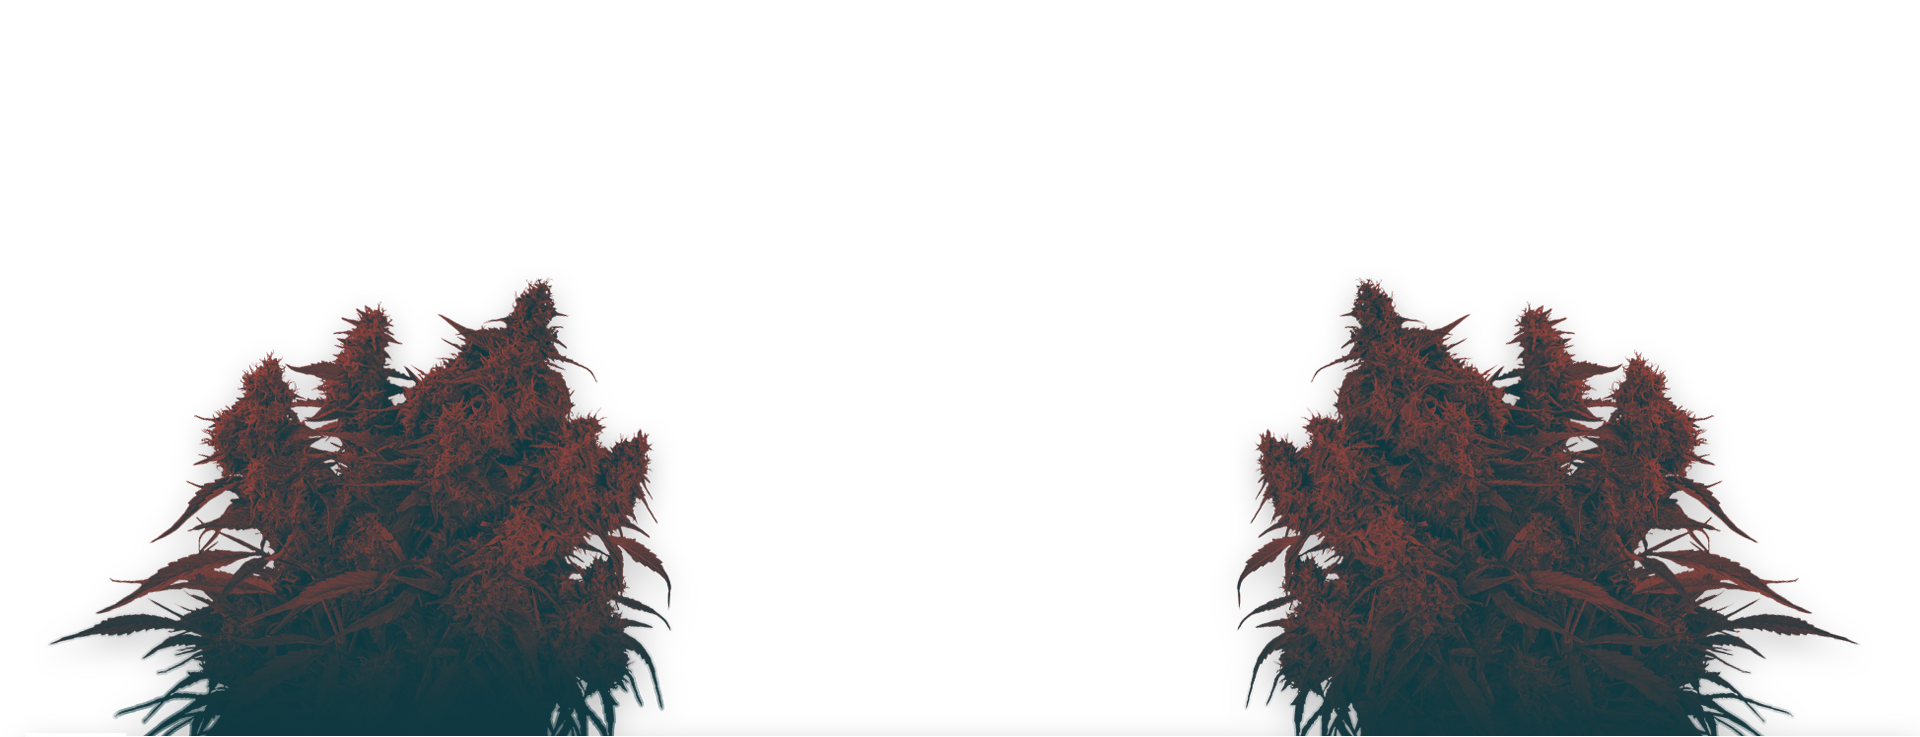
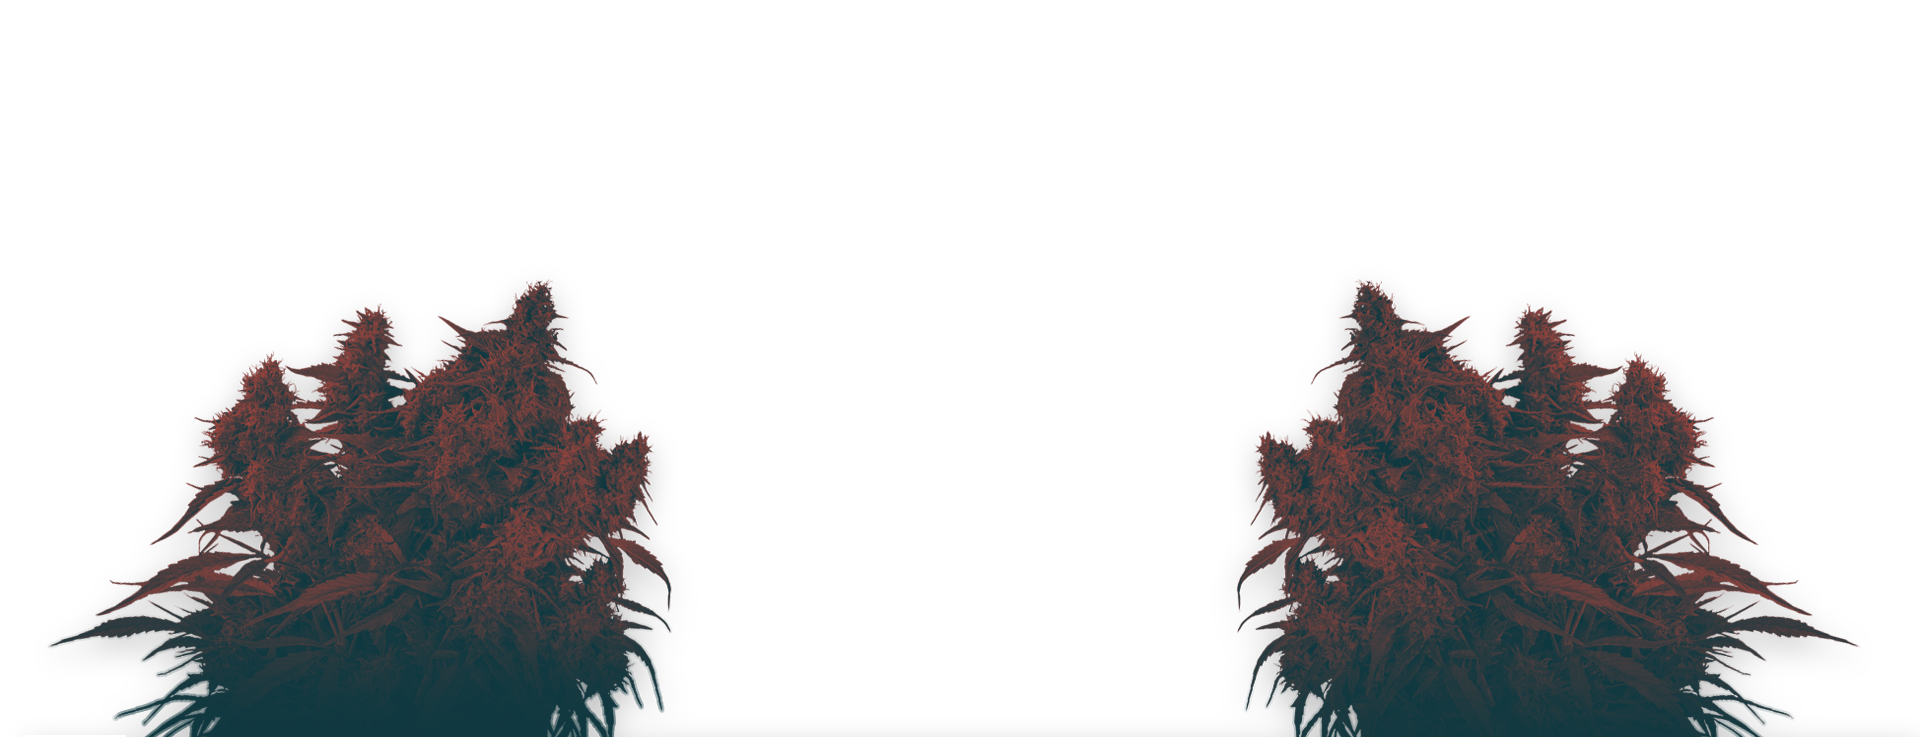
add hooks and other functions

Changed region(s): [[0.625, 0.3745, 0.9688, 1.0], [0.0312, 0.3745, 0.3438, 1.0]]

diff --git a/src/components/home/homeContainer.js b/src/components/home/homeContainer.js
@@ -1,86 +1,90 @@
-import React from 'react';
+import React,{useState} from 'react';
 import './homeContainer.css';
 
-let iconSeed = require("../../assets/home/seed.png");
-let iconFlower = require("../../assets/home/flower.png");
-let iconExtract = require("../../assets/home/extract.png");
 let logo = require("../../assets/home/logo.png");
 let parallax_1 = require("../../assets/home/parallax-1.png");
 let parallax_2 = require("../../assets/home/parallax-2.png");
 
-const listSection = [
-    {img:iconSeed,title:"Seed",summary:"lorem",class:"list-img-title"},
-    {img:iconFlower,title:"Flower",summary:"lorem",class:"list-img-title pd-left-3"},
-    {img:iconExtract,title:"Extract",summary:"lorem",class:"list-img-title pd-left-3"}
-];
-class HomeContainer extends React.Component{
-    render(){
-        return(
-            <section>
-                <TitleContainer listSection={listSection}/>
-            </section>
-        );
-    }
+function HomeContainer(props){
+    return(
+        <section className="main-section">
+            <TitleContainer listSection={props.listSection}/>
+        </section>
+    );
 }
 
-class TitleContainer extends React.Component{
-    constructor(props){
-        super(props);
-        this.state = {
-            meetThemActive : false
-        };
-        this.clickMeetThem = this.clickMeetThem.bind(this);
+function TitleContainer(props){
+    const [sectionOn,setSectionOn] = useState(false);
+    const [dataSectionView,setDataSectionView] = useState({});
+    
+    function changeSection(data,sectionOnInd){
+        setSectionOn(sectionOnInd);
+        setDataSectionView(data)
     }
-
-    clickMeetThem(e){
-        this.setState({
-            meetThemActive : !this.state.meetThemActive
-        });
-    }
-
-    render(){
-        var listSection = this.props.listSection;
-        var sectionOn = this.state.meetThemActive;
-        return(
-            <>
-            <section className='title-container'>
-                <img src={parallax_1}></img>
-                <div>
-                    <img class="logo-img" src={logo}></img>
-                    <br/>
-                    <span className='title'>UN NUEVO CONCEPTO EN FLORES</span>
-                    <br/>
-                    <br/>
-                    <button onClick={this.clickMeetThem} className='btn-explore'>Conócelo</button>
-                    <br/>
-                    <div className="pd-1">
-                        {listSection.map((item) => <ImgSection key={item.title} section={item}/>)}
+        
+    return(
+        <>
+            {!sectionOn && 
+                <section className='title-container'>
+                    <BackImg img={parallax_1}/>
+                    <BackImg img={parallax_2}/>
+                    <div className='elem-container'>
+                        <img className="logo-img" src={logo}></img>
+                        <br/>
+                        <span className='title'>UN NUEVO CONCEPTO EN FLORES</span>
+                        <br/>
+                        <br/>
+                        <button className='btn-explore'>Conócelo</button>
+                        <br/>
+                        <div className="pd-1">
+                            {props.listSection.map((item) => <ImgSection key={item.title} section={item}
+                                onChangeSection={changeSection}/>)}
+                        </div>
                     </div>
-                </div>
-            </section>
-            {sectionOn && <MeetThemView />}
-            </>
-        );
-    }
+                </section>
+            }
+            {!sectionOn ?<MeetThemView />:<SectionView dataSection={dataSectionView} onChangeSection={changeSection}/>}
+        </>
+    );
 }
 
-class ImgSection extends React.Component{
-    constructor(props){
-        super(props);
+function ImgSection(props){
+    function handleChange(){
+        props.onChangeSection(props.section,true);
     }
 
-    render(){
-        return(
-            <img className={this.props.section.class} src={this.props.section.img}></img>
-        );
-    }
+    return(
+        <a className={props.section.class}>
+            <img className='list-img-title' src={props.section.img} onClick={handleChange}/>
+        </a>
+    );
 }
+
 
 function MeetThemView(props) {
     return(
-        <section>
-            <h1>HOLI!</h1>
+        <section className='meet-them'>
+
         </section>
+    );
+}
+
+function BackImg(props) {
+    return(
+        <div className='back-container'>
+            <img className='back-img' src={props.img}></img>
+        </div>
+    );
+}
+
+function SectionView(props) {
+    
+    function returnHome() {
+        props.onChangeSection({},false)
+    }
+
+    return(
+        <h1 onClick={returnHome}>{props.dataSection.summary}</h1>
     );
 }
 export default HomeContainer;

diff --git a/src/index.js b/src/index.js
@@ -4,8 +4,17 @@ import './index.css';
 import HomeContainer from './components/home/homeContainer';
 import * as serviceWorker from './serviceWorker';
 
+let iconSeed = require("./assets/home/seed.png");
+let iconFlower = require("./assets/home/flower.png");
+let iconExtract = require("./assets/home/extract.png");
 
-ReactDOM.render(<HomeContainer />, document.getElementById('root'));
+const listSection = [
+    {img:iconSeed,title:"Seed",summary:"lorem seed",class:""},
+    {img:iconFlower,title:"Flower",summary:"lorem flower",class:"pd-left-3"},
+    {img:iconExtract,title:"Extract",summary:"lorem extract",class:"pd-left-3"}
+];
+
+ReactDOM.render(<HomeContainer listSection={listSection}/>, document.getElementById('root'));
 
 // If you want your app to work offline and load faster, you can change
 // unregister() to register() below. Note this comes with some pitfalls.

diff --git a/src/components/home/homeContainer.css b/src/components/home/homeContainer.css
@@ -2,6 +2,14 @@
     width: 100%;
     height: 100vh;
     text-align: center;
+    /*background-image: url(../../assets/home/parallax-2.png),url(../../assets/home/parallax-1.png);
+    background-position: bottom;
+    background-repeat: no-repeat;*/
+}
+
+.back-container{
+    position: absolute;
+    z-index: -1;
 }
 
 .title-container>div>.title{
@@ -11,8 +19,9 @@
     margin-top: 70px;
 }
 
-.title-container>div{
+.title-container>.elem-container{
     padding-top: 5em;
+    z-index: 2;
 }
 
 .pd-1{
@@ -46,3 +55,12 @@
     width: auto;
     height: 10em;
 }
+
+.back-img{
+    width: 100%;
+    height: 100vh;
+}
+
+.meet-them{
+    height: 100vh;
+  }
